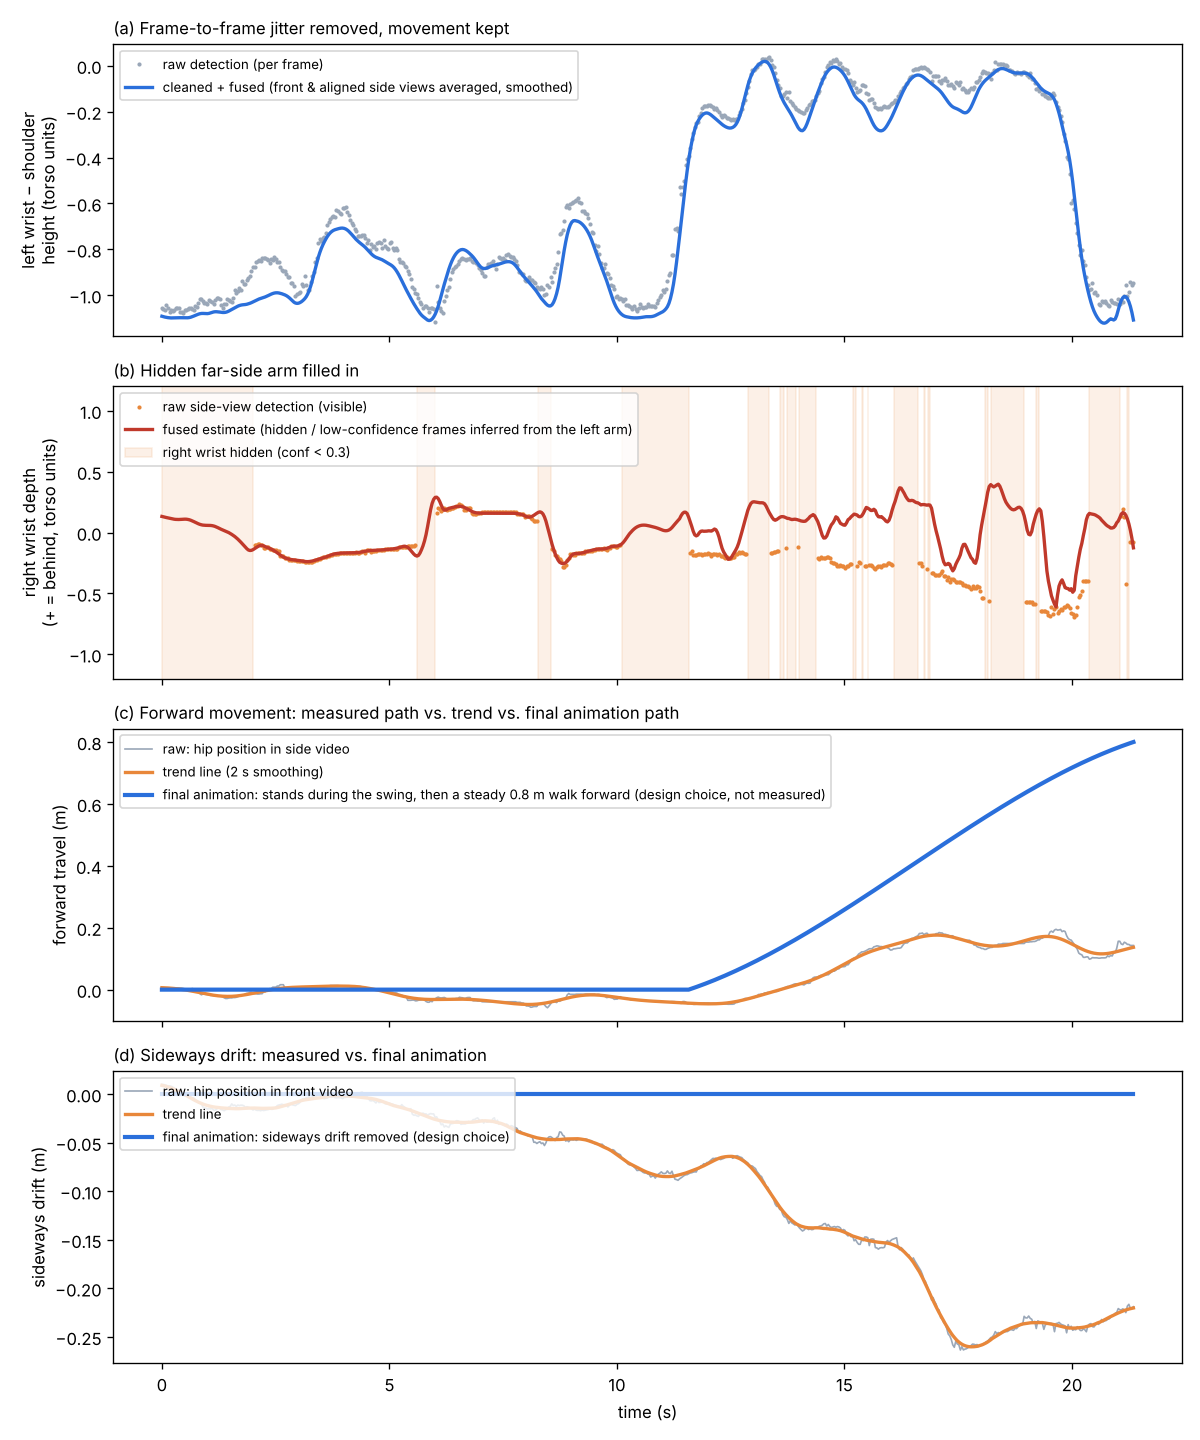
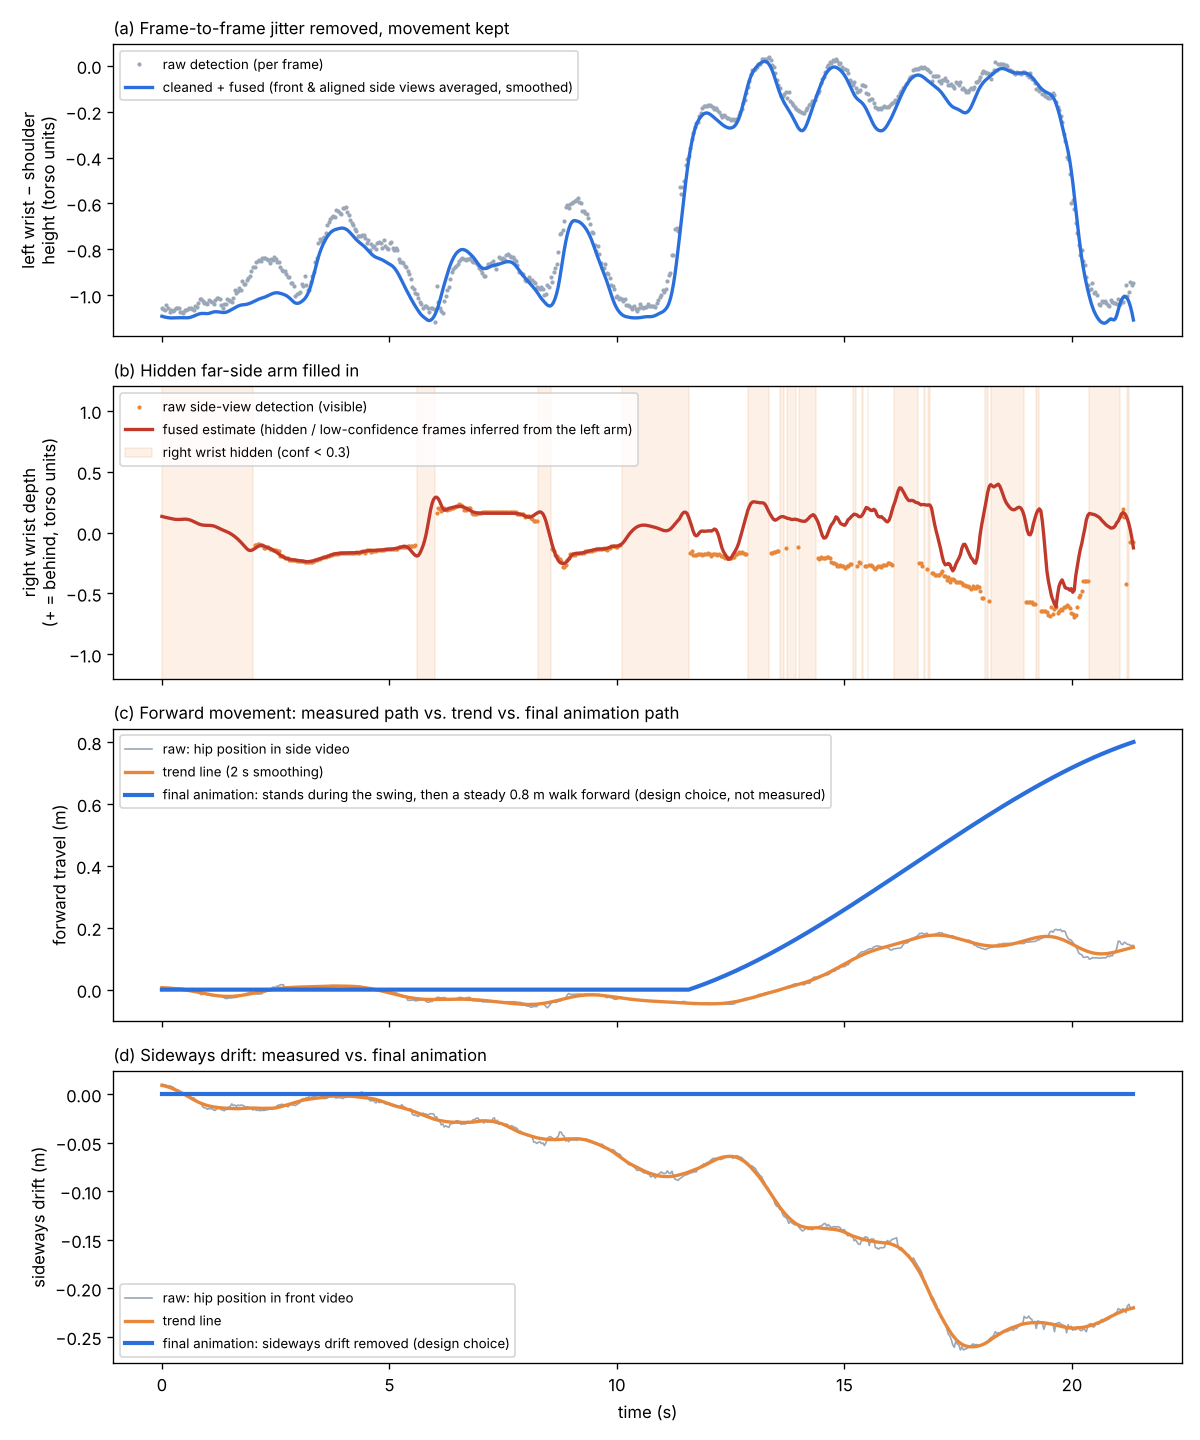
Tidy legend placement in raw-vs-corrected figure
Claude-Session: https://claude.ai/code/session_01W9MJcZR46NmzYGExViSr3L

Changed region(s): [[0.0925, 0.75, 0.4317, 0.8125], [0.0925, 0.875, 0.37, 0.9375], [0.4008, 0.9062, 0.4317, 0.9375]]

diff --git a/pipeline/plot_raw_vs_corrected.py b/pipeline/plot_raw_vs_corrected.py
@@ -59,7 +59,7 @@ lat_raw = (hf_raw[:, 0] - np.nanmean(hf_raw[:30, 0])) * scale_m
 ax[3].plot(t, lat_raw, color='#9aa7b8', lw=1, label='raw: hip position in front video')
 ax[3].plot(t, savgol_filter(lat_raw, int(2 * fps_f) | 1, 2, mode='nearest'), color='#e8873a', lw=2, label='trend line')
 ax[3].plot(t, T['hips'][:, 0] - T['hips'][0, 0], color='#2a6fdb', lw=2.5, label='final animation: sideways drift removed (design choice)')
-ax[3].set_ylabel('sideways drift (m)'); ax[3].set_xlabel('time (s)'); ax[3].legend(fontsize=8, loc='upper left')
+ax[3].set_ylabel('sideways drift (m)'); ax[3].set_xlabel('time (s)'); ax[3].legend(fontsize=8, loc='lower left')
 ax[3].set_title('(d) Sideways drift: measured vs. final animation', fontsize=10, loc='left')
 fig.tight_layout(); fig.savefig('../media/raw_vs_corrected.png', dpi=120)
 
